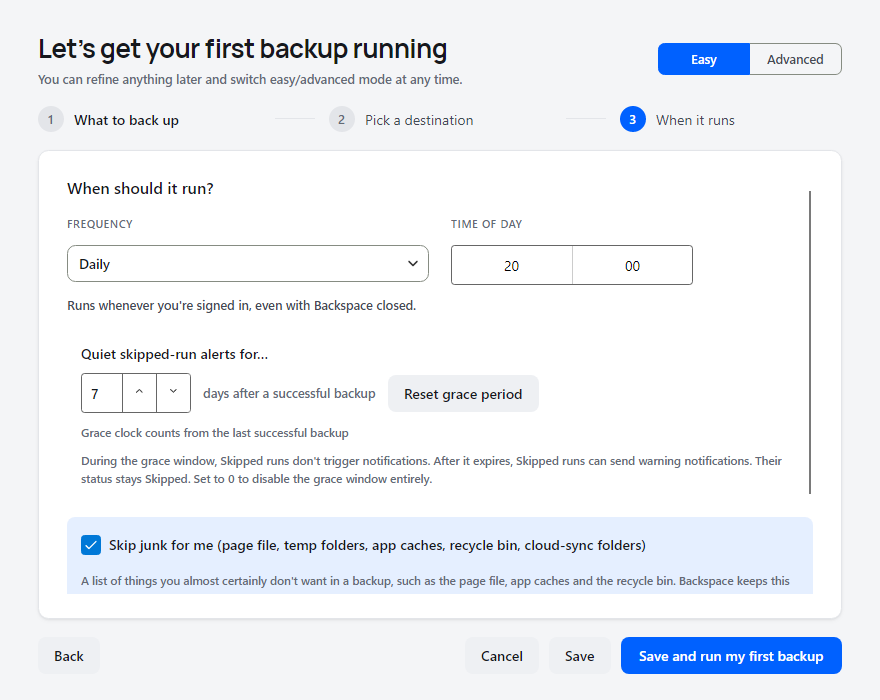
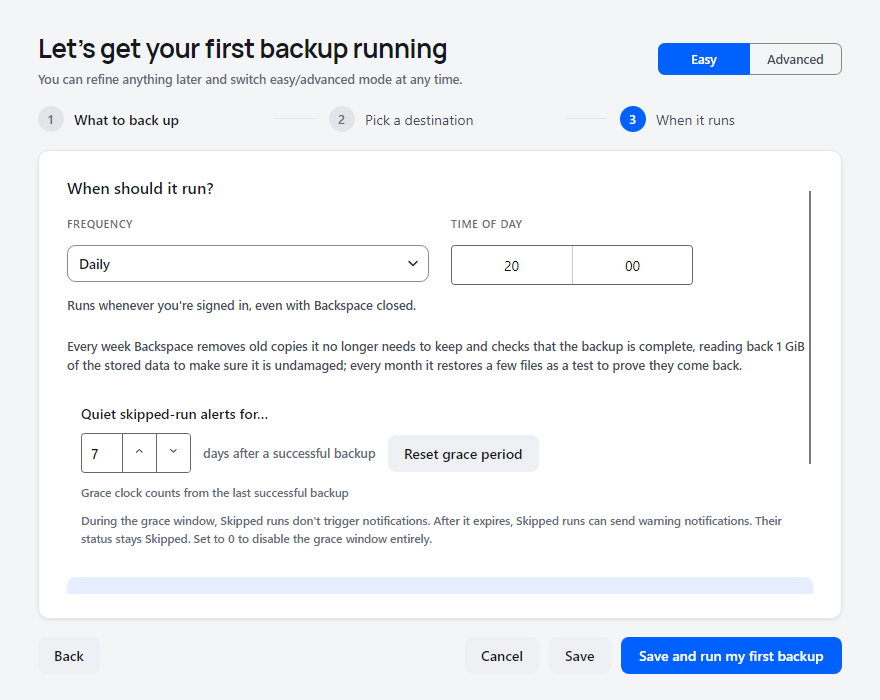
A running check says which check it is on; new backups get no separate structure check (U183, U179)
- --check runs a backup's checks one after another and saves each as its
  own Activity row; the card said only "Checking" while a finished row sat
  beside a running one. The current check now travels with the progress
  (BackupProgressService.ReportActivity → the service's activity): the card
  reads "Checking · Sample test restore (2 of 2) · 14 min" and the live
  Activity row "Running: Sample test restore (2 of 2)".
- Defaults: the weekly data sample checks the structure too, so new
  backups no longer get a separate weekly structure check (owner, 10 Nov).
  The sentence reads "...and checks that the backup is complete, reading
  back 1 GiB...". Onboarding screenshot updated.
- Test: Backup health is one line in the check names with each check in
  the hover; a failure wins over a later pass.

Changed region(s): [[0.0614, 0.48, 0.9511, 0.84], [0.6443, 0.63, 0.8284, 0.69], [0.8591, 0.63, 0.8898, 0.66]]

diff --git a/tests/Backspace.Tests/Models/BackupChecksTests.cs b/tests/Backspace.Tests/Models/BackupChecksTests.cs
@@ -114,13 +114,13 @@ public sealed class BackupChecksTests
         BackupMaintenanceDefaults.ApplyTo(backup);
         Assert.Equal(ScheduleFrequency.Weekly, backup.PruneSchedule!.Frequency);
         Assert.Equal(0b0000_0001, backup.PruneSchedule.WeeklyDaysBitmask); // Once a week, not every day.
-        Assert.Equal(new[] { CheckKind.Structure, CheckKind.DataSample, CheckKind.TestRestore }, backup.Checks.Select(c => c.Kind));
+        // No separate structure check: the data sample checks the structure too.
+        Assert.Equal(new[] { CheckKind.DataSample, CheckKind.TestRestore }, backup.Checks.Select(c => c.Kind));
         Assert.Equal(ScheduleFrequency.Weekly, backup.Checks[0].Schedule!.Frequency);
-        Assert.Equal(ScheduleFrequency.Weekly, backup.Checks[1].Schedule!.Frequency);
+        Assert.Equal(BackupCheck.OneGiB, backup.Checks[0].MaximumBytes);
+        Assert.Equal(ScheduleFrequency.Monthly, backup.Checks[1].Schedule!.Frequency);
+        Assert.Equal(1, backup.Checks[1].SamplePercent);
         Assert.Equal(BackupCheck.OneGiB, backup.Checks[1].MaximumBytes);
-        Assert.Equal(ScheduleFrequency.Monthly, backup.Checks[2].Schedule!.Frequency);
-        Assert.Equal(1, backup.Checks[2].SamplePercent);
-        Assert.Equal(BackupCheck.OneGiB, backup.Checks[2].MaximumBytes);
         Assert.DoesNotContain(backup.Checks, c => c.Kind == CheckKind.FullDataRead);
         Assert.All(backup.Checks, c => Assert.Equal(TimeSpan.FromHours(3), c.Schedule!.TimeOfDay));
     }
@@ -130,8 +130,8 @@ public sealed class BackupChecksTests
     {
         var backup = new Backup();
         BackupMaintenanceDefaults.ApplyTo(backup);
-        Assert.Equal("Every week Backspace removes old copies it no longer needs to keep, checks that the backup is complete "
-            + "and reads back 1 GiB of the stored data to make sure it is undamaged; every month it restores a few files as a test "
+        Assert.Equal("Every week Backspace removes old copies it no longer needs to keep and checks that the backup is complete, "
+            + "reading back 1 GiB of the stored data to make sure it is undamaged; every month it restores a few files as a test "
             + "to prove they come back.", BackupCheck.Sentence(backup));
         backup.PruneSchedule = null;
         backup.Checks = [new BackupCheck { Kind = CheckKind.Structure }];
@@ -189,6 +189,7 @@ public sealed class BackupChecksTests
         var now = new DateTime(2026, 11, 10, 12, 0, 0, DateTimeKind.Utc);
         var backup = new Backup { Id = "b", Enabled = true, CreatedUtc = now.AddDays(-30) };
         BackupMaintenanceDefaults.ApplyTo(backup);
+        backup.Checks.Insert(0, new BackupCheck { Kind = CheckKind.Structure, Schedule = backup.Checks[0].Schedule });
         var entries = new[]
         {
             new BackupCheckEntry("1", now.AddMinutes(-90), BackupRunStatus.Success, CheckDepth.SavedDataSample, ""),
@@ -202,5 +203,12 @@ public sealed class BackupChecksTests
         Assert.Equal("Structure check · passed 20d ago · due again", BackupCheckHistory.KindLines(backup, old, now)[0]);
         Assert.Equal("Data sample · not run yet", BackupCheckHistory.KindLines(backup, old, now)[1]);
         Assert.Equal(lines, BackupCheckHistory.State(backup, entries, now).Kinds);
+        // One line on the card in the Checks list's names; a failure wins over a later pass; each check in the hover.
+        var state = BackupCheckHistory.State(backup, entries, now);
+        Assert.Equal("Sample test restore failed · 3h ago", state.Label);
+        Assert.EndsWith("Each check:\n" + string.Join("\n", lines), state.Details);
+        backup.Checks.RemoveAll(c => c.Kind == CheckKind.TestRestore);
+        var ok = BackupCheckHistory.State(backup, new[] { entries[0] }, now);
+        Assert.Equal(("Data sample passed · 1h ago", "ok"), (ok.Label, ok.Tone));
     }
 }

diff --git a/src/Backspace/ViewModels/BackupCardViewModel.cs b/src/Backspace/ViewModels/BackupCardViewModel.cs
@@ -123,6 +123,8 @@ public sealed partial class BackupCardViewModel : ObservableObject, IDisposable
     /// <summary>A backup is running: only then do the progress bar and the
     /// sources' percentages mean something (a check reads the storage).</summary>
     public bool IsBackingUp => IsRunning && RunningOperation == "backup";
+    /// <summary>Which check runs now ("Sample test restore (2 of 2)"), U183.</summary>
+    [ObservableProperty] [NotifyPropertyChangedFor(nameof(RunningLabel))] private string _runningActivity = "";
     [ObservableProperty] private bool _isVerifying;
     /// <summary>True while the run is registered (IsRunning) but
     /// parked on the orchestrator's per-destination queue waiting
@@ -364,6 +366,7 @@ public sealed partial class BackupCardViewModel : ObservableObject, IDisposable
         get
         {
             var what = RunningOperation switch { "check" => "Checking", "prune" => "Cleaning up", _ => "Running" };
+            if (RunningOperation != "backup" && RunningActivity.Length > 0) what += " · " + RunningActivity;
             return RunStartedUtc is { } started ? what + " · " + Elapsed(UtcNow() - started - QueuedTime()) : what;
         }
     }
@@ -923,6 +926,7 @@ public sealed partial class BackupCardViewModel : ObservableObject, IDisposable
         {
             BackgroundRunId = activity.RunId;
             SetRunning(activity.StartedUtc, activity.Operation is "check" or "prune" ? activity.Operation : "backup");
+            RunningActivity = activity.Progress?.Activity ?? "";
             _reportedQueued = TimeSpan.FromSeconds(activity.Progress?.QueuedSeconds ?? 0);
             SetQueuedReason(activity.Progress?.Queued ?? "");
             if (activity.State == "stopping") LastRunLabel = "Stopping background backup…";

diff --git a/src/Backspace/Services/BackupProgressService.cs b/src/Backspace/Services/BackupProgressService.cs
@@ -489,6 +489,14 @@ public sealed class BackupProgressService
         Raise(backupId);
     }
 
+    /// <summary>Says what a check run is doing now (U183); empty to clear.</summary>
+    public void ReportActivity(string backupId, string text)
+    {
+        var p = _state.GetOrAdd(backupId, _ => new BackupProgress(backupId));
+        lock (p.Gate) p.Activity = text;
+        try { Updated?.Invoke(backupId); } catch (Exception ex) { _log.Warning(ex, "A progress listener failed"); }
+    }
+
     public void ReportRunFinished(string backupId)
     {
         // Purge tracked state ~5s after end so a fast re-trigger doesn't
@@ -614,6 +622,9 @@ public sealed class BackupProgressService
         /// </summary>
         public Dictionary<string, DestinationProgress> Destinations { get; } = new(StringComparer.OrdinalIgnoreCase);
         public string? CurrentSourcePath { get; set; }
+        /// <summary>What a check run is doing now, such as "Sample test restore
+        /// (2 of 2)" (U183); empty for a backup.</summary>
+        public string Activity { get; set; } = "";
         /// <summary>Aggregate 0..100. Computed as the average of
         /// every (source × destination) cell percent, so a backup with
         /// 2 sources and 2 destinations needs all four cells at 100%
@@ -755,6 +766,7 @@ public sealed class BackupProgressService
             {
                 CurrentSourcePath = CurrentSourcePath,
                 OverallPercent = OverallPercent,
+                Activity = Activity,
             };
             foreach (var (k, v) in Sources)
             {

diff --git a/src/Backspace/Services/Platform/Windows/ServiceActivity.cs b/src/Backspace/Services/Platform/Windows/ServiceActivity.cs
@@ -18,7 +18,7 @@ internal static class ServiceActivity
     internal sealed record Destination(string Name, double Percent);
     internal sealed record Progress(string BackupId, double Percent, string Queued,
         Source[] Sources, Destination[] Destinations, RunRecord? Result = null, string TranscriptTail = "", string? LogRunId = null, long TranscriptEnd = 0,
-        double QueuedSeconds = 0);
+        double QueuedSeconds = 0, string Activity = "");
     internal const int TranscriptCharacters = 32768;
     internal sealed record Snapshot(int Version, string? RunId, string State, string? BackupId,
         string? Operation, DateTime? StartedUtc, Progress? Progress, string? Error = null, Snapshot[]? Runs = null);
@@ -46,7 +46,7 @@ internal static class ServiceActivity
         return new(backupId, current?.OverallPercent ?? 0, queued,
             current?.Sources.Values.Select(s => new Source(s.SourcePath, s.PercentComplete, s.IsRunning, s.Detail, s.Phase)).ToArray() ?? [],
             current?.Destinations.Values.Select(d => new Destination(d.Name, d.PercentComplete)).ToArray() ?? [],
-            result is null ? null : Metadata(result));
+            result is null ? null : Metadata(result), Activity: current?.Activity ?? "");
     }
 
     private static RunRecord Metadata(RunRecord result)

diff --git a/tests/Backspace.Tests/Scenarios/S99_ChecksList.cs b/tests/Backspace.Tests/Scenarios/S99_ChecksList.cs
@@ -136,8 +136,8 @@ public sealed class S99_ChecksList : ScenarioBase
         await ctx.Driver.PumpAsync(150);
         var sentence = easy.FindControl<TextBlock>("EasyChecksSentence")!;
         Assert.True(sentence.IsEffectivelyVisible);
-        Assert.Equal("Every week Backspace removes old copies it no longer needs to keep, checks that the backup is complete "
-            + "and reads back 1 GiB of the stored data to make sure it is undamaged; every month it restores a few files as a test "
+        Assert.Equal("Every week Backspace removes old copies it no longer needs to keep and checks that the backup is complete, "
+            + "reading back 1 GiB of the stored data to make sure it is undamaged; every month it restores a few files as a test "
             + "to prove they come back.", sentence.Text);
         Assert.DoesNotContain(easy.GetVisualDescendants().OfType<Button>(), b => b.Name?.StartsWith("Add") == true && b.Name.Contains("Check"));
         ctx.Snapshot(easy, "easy mode sentence", "Easy mode, step 3: under the schedule, one plain sentence says what Backspace does by itself every week and every month. No check settings.");

diff --git a/src/Backspace/Services/BackupOrchestrator.Maintenance.cs b/src/Backspace/Services/BackupOrchestrator.Maintenance.cs
@@ -40,11 +40,17 @@ public sealed partial class BackupOrchestrator
             ? BackupCheck.InRunOrder(backup.Checks).ToList()
             : [new BackupCheck { Kind = CheckKind.Structure }];
         var records = new List<RunRecord>();
-        foreach (var check in checks)
+        try
         {
-            if (ct.IsCancellationRequested) break;
-            records.Add(await RunCheckAsync(backup, check, ct, onlyTargets).ConfigureAwait(false));
+            for (var i = 0; i < checks.Count; i++)
+            {
+                if (ct.IsCancellationRequested) break;
+                // Says which check runs now: the card and Activity show it (U183).
+                _progress.ReportActivity(backup.Id, checks.Count > 1 ? $"{checks[i].Title} ({i + 1} of {checks.Count})" : checks[i].Title);
+                records.Add(await RunCheckAsync(backup, checks[i], ct, onlyTargets).ConfigureAwait(false));
+            }
         }
+        finally { _progress.ReportActivity(backup.Id, ""); }
         return CheckRunWording.Combine(backup, records);
     }
 

diff --git a/src/Backspace/ViewModels/LogsViewModel.cs b/src/Backspace/ViewModels/LogsViewModel.cs
@@ -417,6 +417,8 @@ public sealed partial class LogsViewModel : ViewModelBase, IDisposable
                     BackupName = ServiceLocator.Config.Current.Backups.FirstOrDefault(b => b.Id == current.BackupId)?.Name ?? current.BackupId,
                     StartedUtc = current.StartedUtc.Value, Status = BackupRunStatus.Running, TriggeredAutomatically = true,
                     Kind = current.Operation == "check" ? RunKind.Check : current.Operation == "prune" ? RunKind.Prune : RunKind.Backup };
+            // Which check runs now, so the live row says what the finished rows beside it are part of (U183).
+            if (current.Operation == "check") _serviceRun.Summary = current.Progress?.Activity is { Length: > 0 } now ? "Running: " + now : "";
         }
         else if (current is { BackupId: not null, RunId: not null, StartedUtc: not null }
             && current.State is "failed" or "failed-to-start" or "interrupted")

diff --git a/src/Backspace/Models/BackupMaintenanceDefaults.cs b/src/Backspace/Models/BackupMaintenanceDefaults.cs
@@ -29,10 +29,10 @@ public static class BackupMaintenanceDefaults
         b.Checks = Checks(b.Schedule);
     }
 
-    /// <summary>The recommended checks (U179).</summary>
+    /// <summary>The recommended checks (U179). No separate structure check:
+    /// restic's data sample checks the structure too (owner, 10 November 2026).</summary>
     public static List<BackupCheck> Checks(BackupSchedule main) =>
     [
-        new() { Kind = CheckKind.Structure, Schedule = BuildSchedule(main, ScheduleFrequency.Weekly) },
         new() { Kind = CheckKind.DataSample, Schedule = BuildSchedule(main, ScheduleFrequency.Weekly), MaximumBytes = BackupCheck.OneGiB },
         new() { Kind = CheckKind.TestRestore, Schedule = BuildSchedule(main, ScheduleFrequency.Monthly), SamplePercent = 1, MaximumBytes = BackupCheck.OneGiB },
     ];

diff --git a/src/Backspace/Models/BackupCheck.cs b/src/Backspace/Models/BackupCheck.cs
@@ -143,7 +143,7 @@ public sealed class BackupCheck
             Add(check.Schedule, check.Kind switch
             {
                 CheckKind.Structure => "checks that the backup is complete",
-                CheckKind.DataSample => $"reads back {Size(check.MaximumBytes)} of the stored data to make sure it is undamaged",
+                CheckKind.DataSample => $"checks that the backup is complete, reading back {Size(check.MaximumBytes)} of the stored data to make sure it is undamaged",
                 CheckKind.TestRestore => "restores a few files as a test to prove they come back",
                 _ => "reads back all the stored data to make sure it is undamaged",
             });

diff --git a/docs/USER-GUIDE.md b/docs/USER-GUIDE.md
@@ -759,8 +759,8 @@ own setting above, under **Cleanup**. There are four kinds:
 - **Full data read**: downloads all the stored data and checks every piece.
   The most thorough check of the storage, and the slowest. Off by default.
 
-New backups get a weekly cleanup, a weekly structure check, a weekly 1 GiB
-data sample and a monthly sample test restore (1%, at most 1 GiB), at 3 AM
+New backups get a weekly cleanup, a weekly 1 GiB data sample (which checks
+the structure too, so no separate structure check) and a monthly sample test restore (1%, at most 1 GiB), at 3 AM
 (Sunday for the weekly ones, the 1st for the monthly one). Easy mode shows
 this as one sentence and no settings. Backups set up before checks were a
 list keep what they had: a monthly check with a data sample and a test
